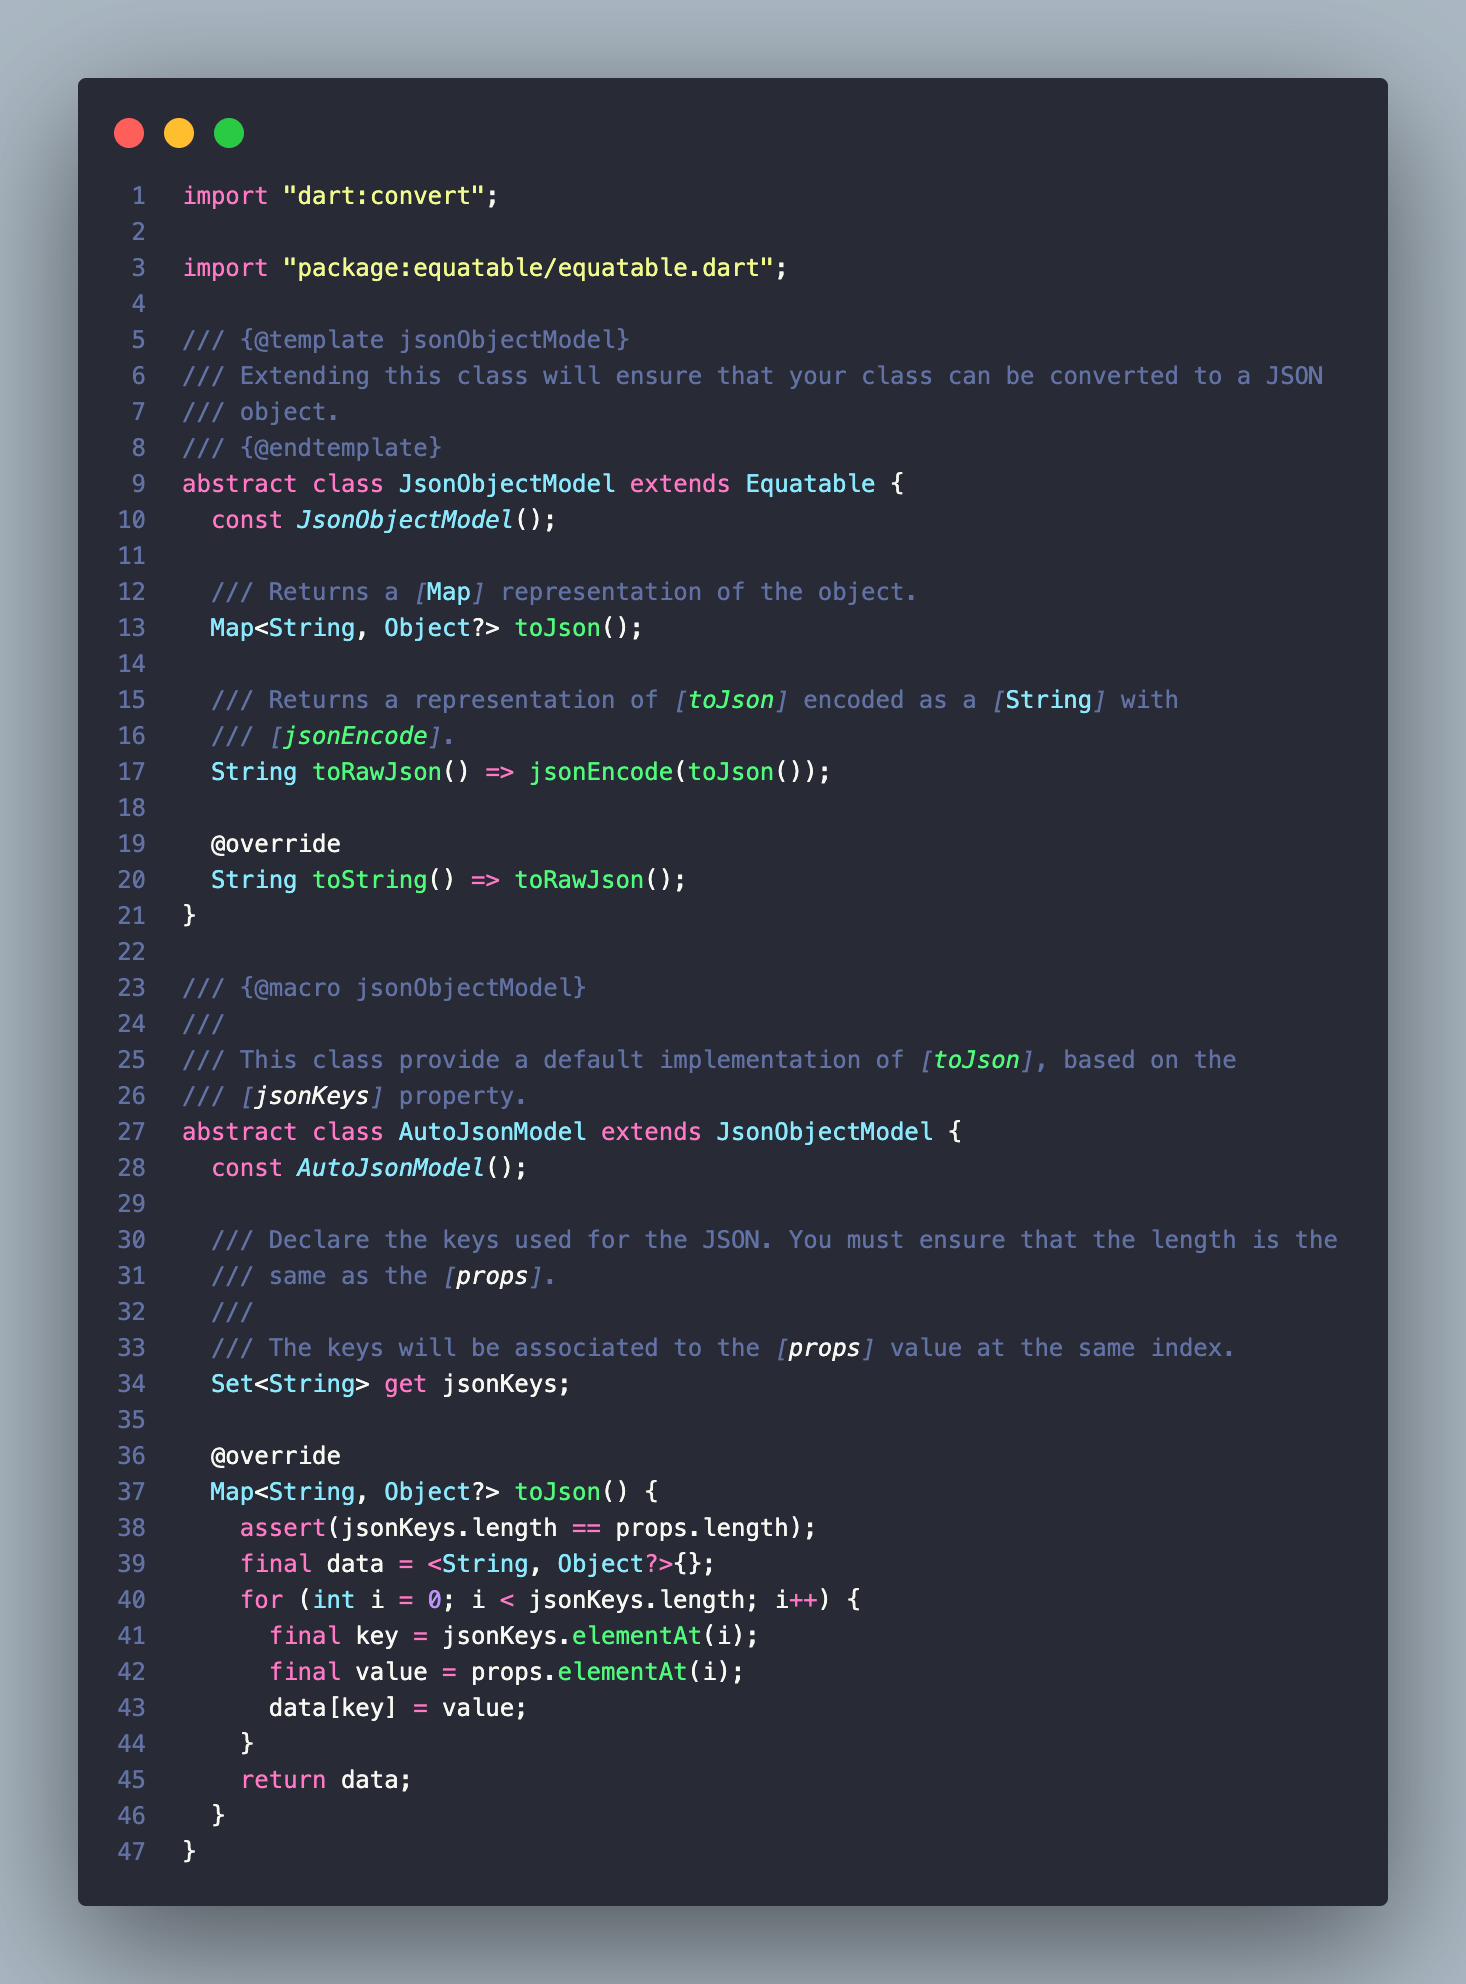
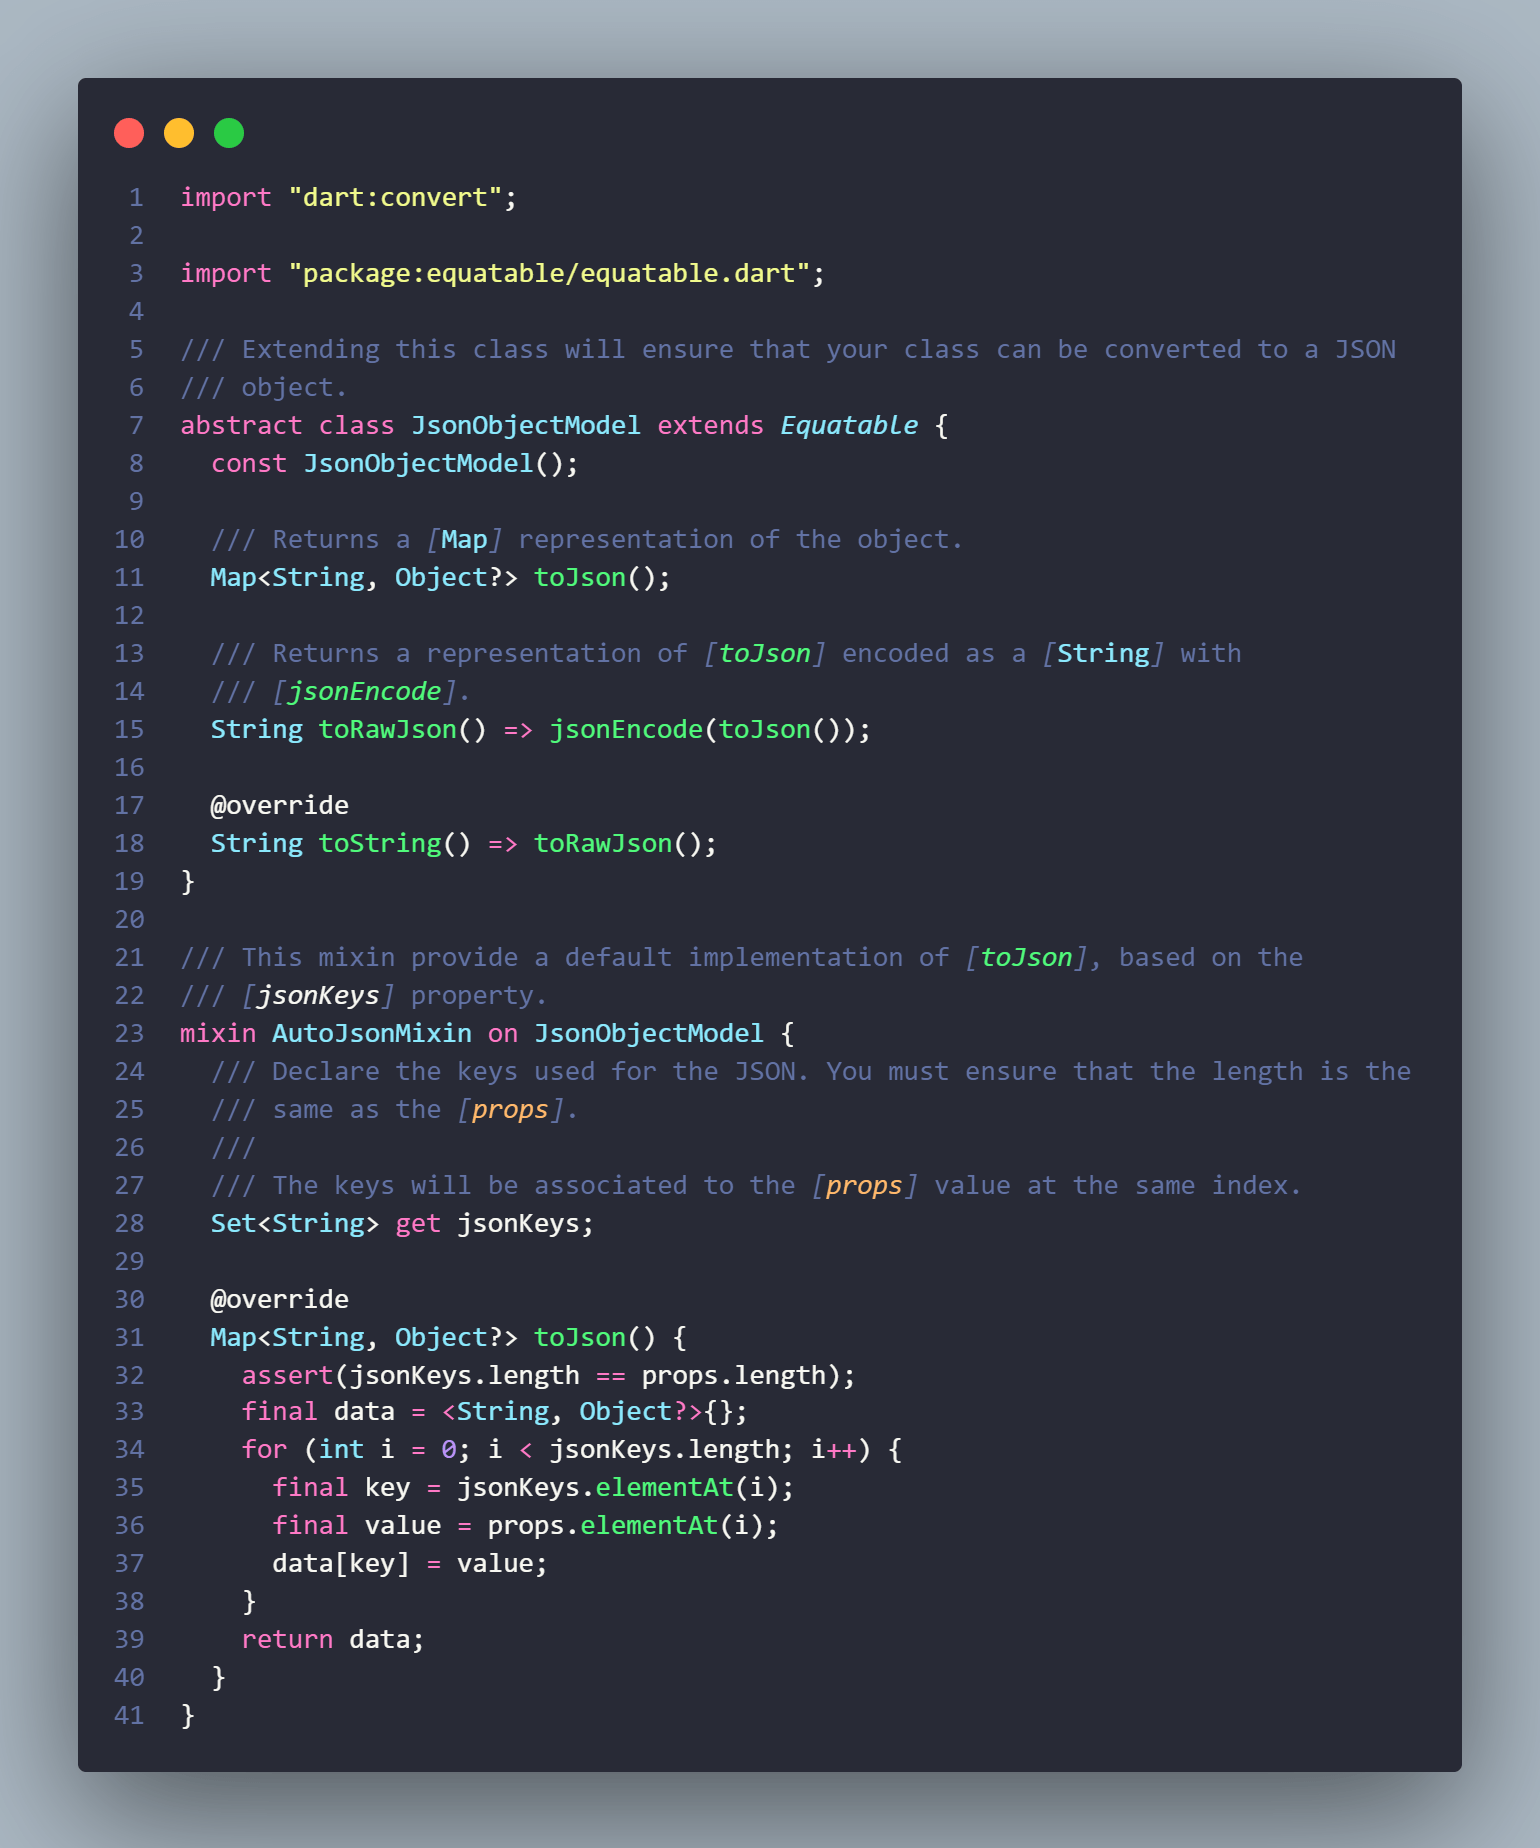
update json object model

diff --git a/source/json_object_model.dart b/source/json_object_model.dart
@@ -2,10 +2,8 @@ import "dart:convert";
 
 import "package:equatable/equatable.dart";
 
-/// {@template jsonObjectModel}
 /// Extending this class will ensure that your class can be converted to a JSON
 /// object.
-/// {@endtemplate}
 abstract class JsonObjectModel extends Equatable {
   const JsonObjectModel();
 
@@ -20,13 +18,9 @@ abstract class JsonObjectModel extends Equatable {
   String toString() => toRawJson();
 }
 
-/// {@macro jsonObjectModel}
-///
-/// This class provide a default implementation of [toJson], based on the
+/// This mixin provide a default implementation of [toJson], based on the
 /// [jsonKeys] property.
-abstract class AutoJsonModel extends JsonObjectModel {
-  const AutoJsonModel();
-
+mixin AutoJsonMixin on JsonObjectModel {
   /// Declare the keys used for the JSON. You must ensure that the length is the
   /// same as the [props].
   ///
@@ -106,7 +100,7 @@ class MyUser extends JsonObjectModel {
   }
 }
 
-class MyUser2 extends AutoJsonModel {
+class MyUser2 extends JsonObjectModel with AutoJsonMixin {
   final String company;
   final String username;
   final String password;
